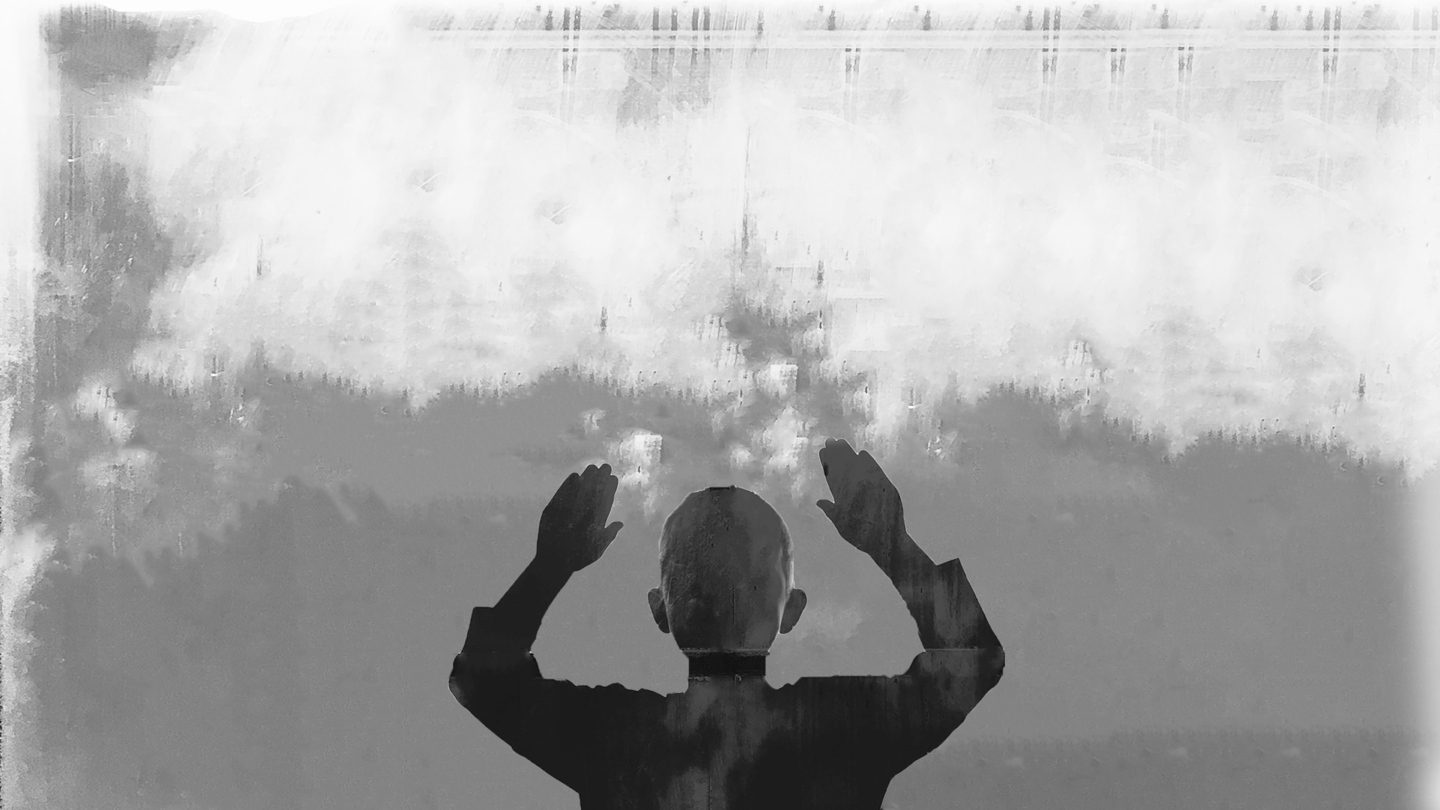
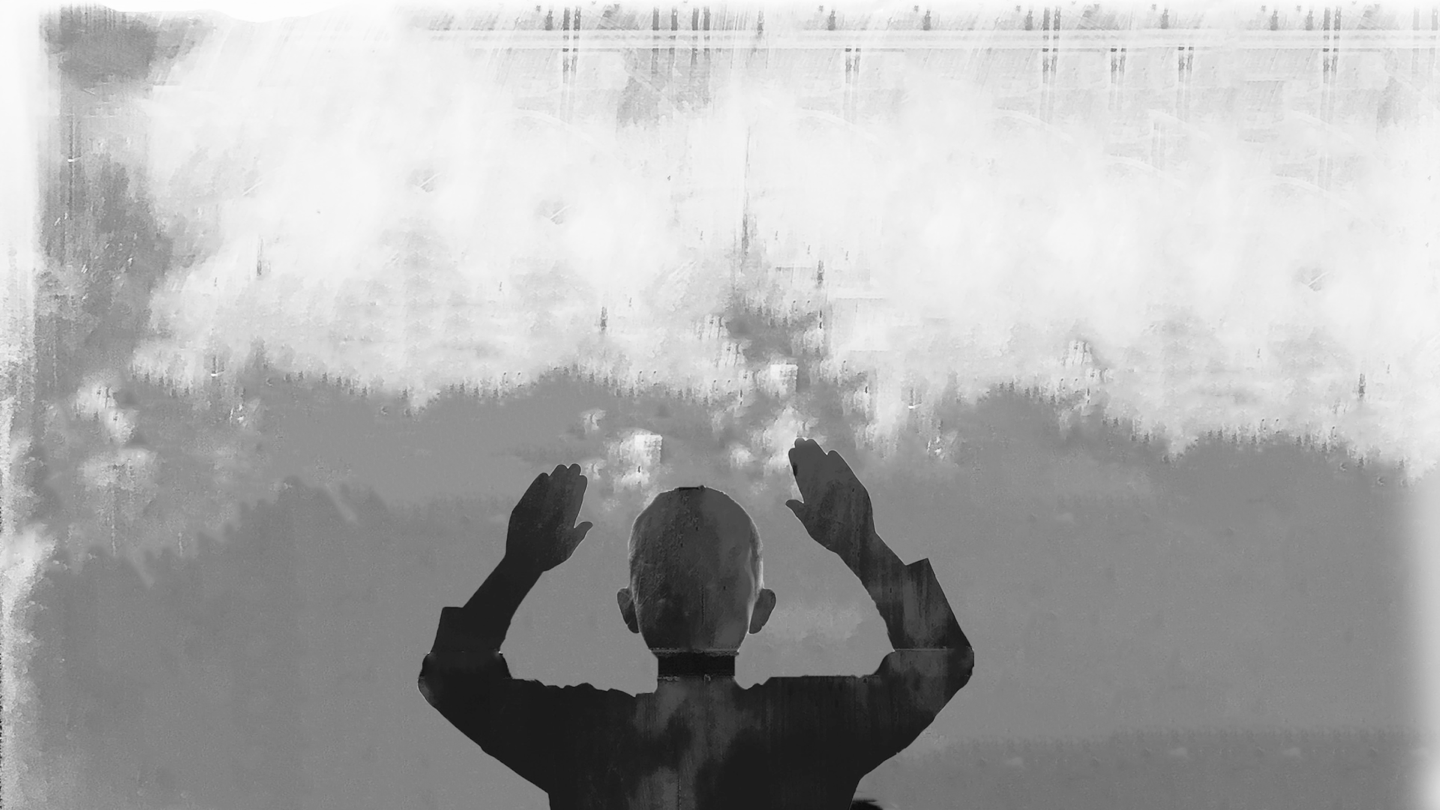
animation test

Changed region(s): [[0.2812, 0.5247, 0.7188, 1.0], [0.4375, 0.9568, 0.5, 1.0]]

diff --git a/css/styles.css b/css/styles.css
@@ -22,6 +22,7 @@ body {
     height: 100vh;
     height: calc(var(--vh, 1vh) * 100);
     position: relative;
+    overflow: hidden;
 }
 
 .first-section > div {
@@ -125,17 +126,27 @@ main section:nth-of-type(1) p {
     7px -7px 0px #000000;
 }
 
-.second-h2{
+.second-h2 {
     width: 100%;
     display: flex;
     margin: 0 auto;
     padding-top: 200px;
 }
 
-.second-img{
+.second-img {
     width: 100%;
     height: 100%;
     cursor: pointer;
+    transition: all 1s;
+    clip-path: polygon(30% 32%, 69% 32%, 69% 97%, 30% 97%);
+
+
+
+}
+
+.full-image {
+    transition: all 1s;
+    clip-path: polygon(0 0, 100% 0, 100% 100%, 0 100%);
 }
 
 .second-section {
@@ -143,9 +154,10 @@ main section:nth-of-type(1) p {
     height: calc(var(--vh, 1vh) * 100);
     background-color: #B0C6E2;
     position: relative;
+    overflow: hidden;
 }
 
-.second-section div:nth-of-type(2){
+.second-section div:nth-of-type(2) {
     position: relative;
     display: block;
     right: 1px;
@@ -157,23 +169,25 @@ main section:nth-of-type(1) p {
     transition:  all 1s;
 }
 
-.second-section div:nth-of-type(1){
+.second-section div:nth-of-type(1) {
     font-size: 30px;
     font-family: Arial, Helvetica, sans-serif;
-    width: 10em;
+    font-weight: bold;
+    width: 10.5em;
     position: absolute;
     left: -100%;
-    bottom: 30px;
+    bottom: 35px;
     z-index: 3;
     opacity: 0;
     transition: all 1s;
 }
 
-.second-section div:nth-of-type(1) p{
+.second-section div:nth-of-type(1) p {
     font-size: 20px;
+    line-height: 1.5em;
 }
 
-.second-section div:nth-of-type(2).full-width{
+.second-section div:nth-of-type(2).full-width {
     transition:  all 1s;
     display: block;
     right: 0px;
@@ -183,6 +197,13 @@ main section:nth-of-type(1) p {
     height: 100%;
     position: absolute;
     bottom: 0;
+    background-color: black;
+    clip-path: polygon(28% 29%, 71% 29%, 71% 100%, 28% 100%);
+}
+
+.second-section div:nth-of-type(2).animate{
+    transition:  all 1s;
+    clip-path: polygon(0 0, 100% 0, 100% 100%, 0 100%);
 }
 
 .hand {
@@ -191,17 +212,26 @@ main section:nth-of-type(1) p {
     z-index: 1;
     width: 800px;
 }
-.second-section div:nth-of-type(2) h2{
+
+.second-section div:nth-of-type(2) h2 {
     pointer-events: none;
     position: absolute;
     font-size: 5em;
+    width: 5em;
+    left: 1px;
+    right: 1px;
+    bottom: 130px;
+    margin: 0 auto;
+    z-index: 5;
     transition:  all 1s;
 }
+
 .rotate-left {
     display: block;
     transform: rotate(-90deg);
     transition:  all 1s;
 }
+
 .rotate-right {
     padding-top: 50px;
     display: block;
@@ -209,12 +239,13 @@ main section:nth-of-type(1) p {
     transition:  all 1s;
 }
 
-.second-section div:nth-of-type(2).full-width .rotate-right, .second-section div:nth-of-type(2).full-width .rotate-left{
+.second-section div:nth-of-type(2).animate .rotate-right, .second-section div:nth-of-type(2).animate .rotate-left{
     transform: rotate(0deg);
     padding-top: 0;
     padding-left: .5em;
 }
-.second-section div:nth-of-type(2).full-width h2{
+
+.second-section div:nth-of-type(2).animate h2 {
     text-align: center;
     bottom: 0;
     width: 8em;
@@ -223,7 +254,7 @@ main section:nth-of-type(1) p {
     right: 1px;
 }
 
-.second-section div:nth-of-type(1).appear{
+.second-section div:nth-of-type(1).appear {
     left: 40px;
     opacity: 1;
     transition: all 1s;
@@ -236,10 +267,38 @@ main section:nth-of-type(1) p {
     right: -100%;
     z-index: 1;
     top: 50%;
+    border: none;
+    background-color: transparent;
 }
 
-.second-section button.show{
+.second-section button:before {
+    content: "";
+    background-color: black;
+    width: 0.4em;
+    height: 4em;
+    z-index: 1;
+    right: 2.5em;
+    position: absolute;
+    transform: rotate(45deg);
+}
+
+.second-section button:after {
+    content: "";
+    background-color: black;
+    width: 0.4em;
+    height: 4em;
+    z-index: 1;
+    position: absolute;
+    right: 2.5em;
+    transform: rotate(-45deg);
+}
+
+.second-section button.show {
     opacity: 1;
     right: 40px;
     transition: all 1s;
+    
 }
+
+
+

diff --git a/index.html b/index.html
@@ -12,7 +12,7 @@
             <a href=""><img class="logo" src="images/Group 4.png" alt=""></a>
             <div>
                 <div>
-                    <img src="images/home.png" alt="">
+                    <img src="images/home.gif" alt="">
                 </div>
                 <div>
                     <h2 class="h2"> 
@@ -29,18 +29,18 @@
         </section>
 
         <section class="second-section">
-            <button>Close</button>
+            <button></button>
             <div>
                 <h3 class="h3">“ Around 260 million children are in employment around the world. “</h3>
-                <p>The International Labour Organisation (ILO) estimates that 170 million are engaged in child labour, with many making textiles and garments to satisfy the demand of consumers in Europe, the US, and beyond.Many child labourers work within the fashion supply chain.</p>
+                <p>The International Labour Organisation (ILO) estimates that 170 million are engaged in child labour, with many making textiles and garments to satisfy the demand of consumers in Europe, the US, and beyond. Many child labourers work within the fashion supply chain.</p>
             </div>
             <img class="hand" src="images/hand.png" alt="">
-            <div>
+            <div class="full-width">
                 <h2 class="h2 second-h2"> 
                     <span class="rotate-left">Child </span>      
                     <span class="rotate-right"> Labour</span>
                 </h2>
-                <img class="second-img" src="images/first.png" alt="">
+                <img class="second-img" src="images/full-width.png" alt="">
             </div>
         </section>
 </main>

diff --git a/js/main.js b/js/main.js
@@ -11,16 +11,17 @@ var secondImage = document.querySelector(".second-img");
 var div = document.querySelector(".second-section div:nth-of-type(2)")
 var div2 = document.querySelector(".second-section div:nth-of-type(1)")
 var backButton = document.querySelector(".second-section button")
+var img = document.querySelector('.second-img')
 
 secondImage.addEventListener("click", function(){
-    secondImage.src= "images/full-width.png"   
-    div.classList.add('full-width')
+    img.classList.add("full-image")
+    div.classList.add('animate')
     div2.classList.add('appear')
     backButton.classList.add("show")
 })
 backButton.addEventListener('click', function(){
-    secondImage.src= "images/first.png"
-    div.classList.remove('full-width')
+    img.classList.remove("full-image")
+    div.classList.remove('animate')
     div2.classList.remove('appear')
     backButton.classList.remove("show")
 })
